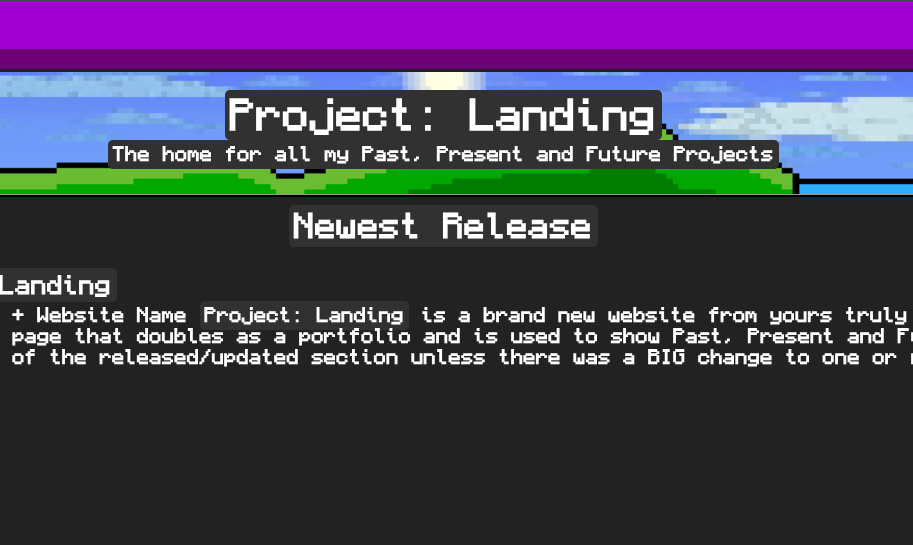
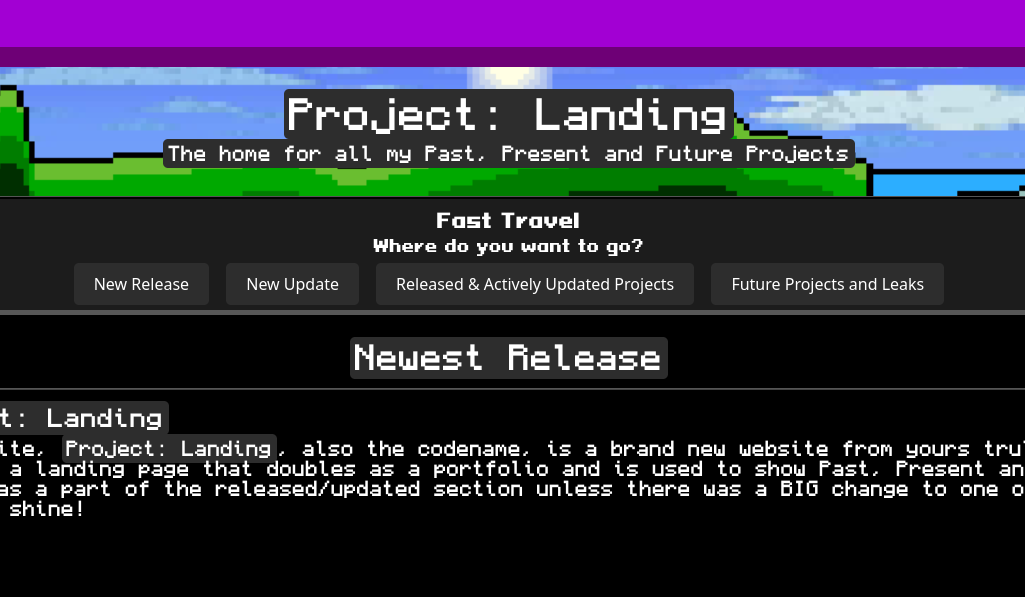
Website Update

diff --git a/index.html b/index.html
@@ -99,8 +99,8 @@
                     </li>
                 </ul>
             </nav>
-            <div class="depth-effect"> </div>
             <div class="title-image">
+                <div class="depth-effect"> </div>
                 <h5> </h5>
                 <h1 class="big">
                     <code>Project: Landing</code>
@@ -109,28 +109,28 @@
                     <code>The home for all my Past, Present and Future Projects</code>
                 </h3>
                 <h5> </h5>
-            <hr class="no_limit">
+                <hr class="no_limit">
             </div>
+            <div class="center">
             <h3>Fast Travel</h3>
             <p>Where do you want to go?</p>
-            <div class="buttons">
-                <button>
-                    <a href="#new_release">New Release</a>
-                </button>
-                <button>
-                    <a href="I also#new_update">New Update</a>
-                </button>
-                <button>
-                    <a href="#now">Released & Actively Updated Projects</a>
-                </button>
-                <button>
-                    <a href="#future">Future Projects and Leaks</a>
-                </button>
-            </div>
-            <br class="no_limit">
-            <div class="center">
+                <div class="buttons">
+                    <button>
+                        <a href="#new_release">New Release</a>
+                    </button>
+                    <button>
+                        <a href="I also#new_update">New Update</a>
+                    </button>
+                    <button>
+                        <a href="#now">Released & Actively Updated Projects</a>
+                    </button>
+                    <button>
+                        <a href="#future">Future Projects and Leaks</a>
+                    </button>
+                </div>
                 <div class="center_content">
                     <div id="new_release">
+                        <br>
                         <h1>
                             <code>Newest Release</code>
                         </h1>
@@ -147,12 +147,15 @@
                                 </div>
                                 <div class="desc">
                                     <h3>The Website, <code>Project: Landing</code>, also the codename, is a brand new website from yours truly and is going to live up to its name, which is to be a landing page that doubles as a portfolio and is used to show Past, Present and Future projects, now I will not be using the website as a part of the released/updated section unless there was a BIG change to one or more parts of the website as to let other projects shine!</h3>
+                                    <br>
+                                    <p>VERSION: 1.0</p>
                                 </div>
                             </div>
                         </div>
                         <p> </p>
                     </div>
                     <div id="new_update">
+                        <br>
                         <h1>
                             <code>Latest Update</code>
                         </h1>
@@ -172,18 +175,20 @@
                                     <br>
                                     <p>PROJECT REQUIREMENT: Minecraft Java Edition is required to use the Java Resource Pack</p>
                                     <p>VERSION REQUIREMENT: 26.1</p>
+                                    <br>
+                                    <p>VERSION: Beta 1.2</p>
                                     <a href="https://github.com/Gh053d413x/Better-GUI/releases/latest">
                                         <button>Download Minecraft Java Resource Pack!</button>
                                     </a>
                                 </div>
                             </div>
                         </div>
-                        <p> </p>
                     <br>
             </div>
             </div>
             <br>
                     <div id="now">
+                        <br>
                         <h1>
                             <code>Released & Actively Updated Projects</code>
                         </h1>
@@ -201,6 +206,8 @@
                                         </h2>
                                     <div class="desc">
                                         <h3>The terminal is an administrative tool working from just basic commands like "about" to complex commands. Use Wisely! Software is free, you can edit and customize and modify it anyway you want.</h3>
+                                        <br>
+                                        <p>VERSION: Alpha 1.8</p>
                                         <a href="https://github.com/Gh053d413x/Admin_Terminal/releases/latest">
                                             <button>Download the Admin Terminal!</button>
                                         </a>
@@ -225,6 +232,8 @@
                                     <br>
                                     <p>PROJECT REQUIREMENT: Minecraft Java Edition is required to use the Java Resource Pack</p>
                                     <p>VERSION REQUIREMENT: 26.1</p>
+                                    <br>
+                                    <p>VERSION: Beta 1.2</p>
                                         <a href="https://github.com/ghosted-alex/Better-GUI/releases/latest">
                                             <button>Download Minecraft Java Resource Pack!</button>
                                         </a>
@@ -232,10 +241,12 @@
                                 </div>
                             </div>
                         </div>
+                        <br>
                     </div>
                 </div>
             <br>
             <div id="future">
+                <br>
                 <h1>
                     <code>Get Ready for NEW PROJECTS!</code>
                 </h1>
@@ -253,9 +264,11 @@
                         <h5>(More Leaks of Project: Galaxy coming soon!)</h5>
                     </div>
                 </div>
+                <br>
                 </div>
             <br>
             <div id="past">
+                <br>
                 <h1>
                     <code>Past Projects</code>
                 </h1>
@@ -273,6 +286,9 @@
                                 </h2>
                             <div class="desc">
                                 <h3>Galactic Space is a space shooter where you need to shoot enemies, collect powerups and dodge. You can use a Makey-Makey or a Keyboard. Fight through the boss to get to the next difficulty. Who can get the most points?</h3>
+                                <br>
+                                <p>VERSION: Web Beta 1.8</p>
+                                <p>Development Stopped in 12/25/2024</p>
                                 <a href="https://arcade.makecode.com/82906-84694-08549-17893" target="_blank">
                                     <button>Play Galactic Space</button>
                                 </a>
@@ -294,6 +310,9 @@
                             </div>
                             <div class="desc">
                                 <h3>Desire Design is an old website I created when I was in High School <br> to make my own website for my first time</h3>
+                                <br>
+                                <p>VERSION: 1.16</p>
+                                <p>Development Stopped in 06/20/2024</p>
                                 <a href="https://sites.google.com/view/desiredesign">
                                     <button>Visit The Website</button>
                                 </a>
@@ -301,6 +320,7 @@
                         </div>
                     </div>
                 </div>
+                <br>
             </div>
             </div>
         </div>
